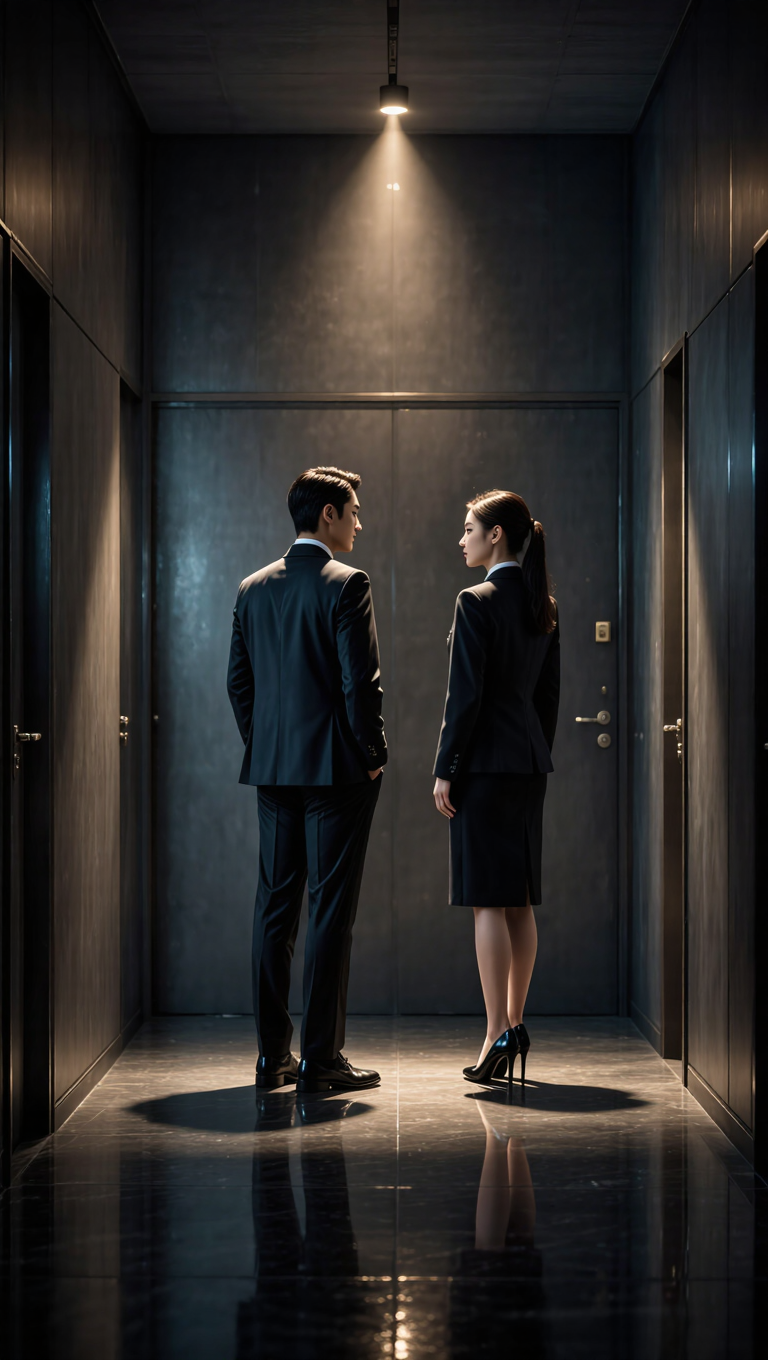
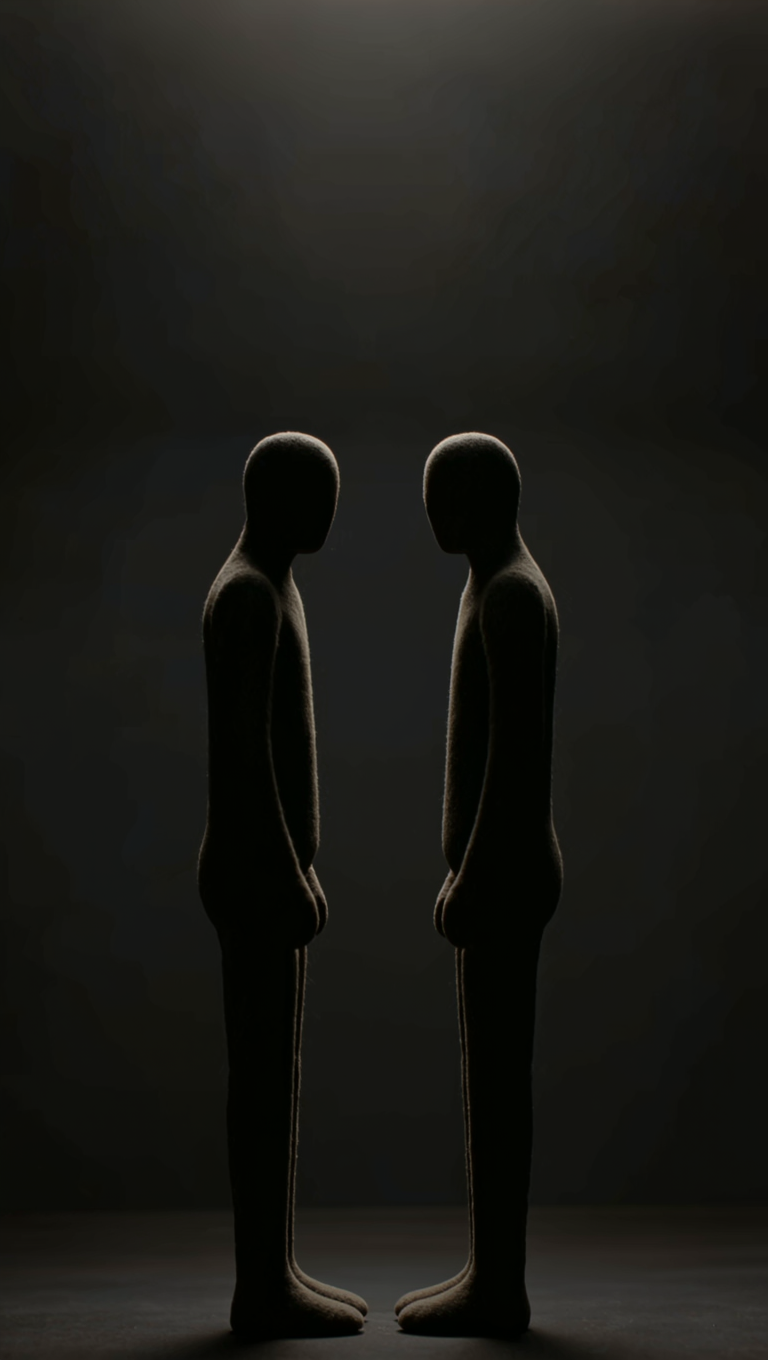
fix(ST-002): pakeistas vaizdas — abstrakčios figūros (84/100 → beta)
Problema: senasis vaizdas (du žmonės koridoriuje) turėjo:
  - Lyties signalą (V1.4: 2/5)
  - Naratyvinį šališkumą FC-001 (santykio interpretacija)
  - Biuro koridoriaus kultūrinį kontekstą

Sprendimas: naujas vaizdas — dvi abstrakčios figūros
  - Featureless humanoidai be lyties/drabužių/veido
  - Juodas neutralus fonas
  - Jokios aplinkos detalių

Rezultatas:
  V1.1: 3→4  V1.3: 3→4  V1.4: 2→5
  Balas: 73→84/100
  Statusas: review → beta
  FC-001: minimalus likutinis efektas, stebimas

docs/media/ax_approach.png taip pat atnaujinta

diff --git a/stimuli/ST-002/review.md b/stimuli/ST-002/review.md
@@ -4,7 +4,7 @@
 **Peržiūros data:** 2026-07-30
 **Recenzentas:** Claude (ConflictLab v0.6 auditas)
 **Remtasi:** `docs/methodology/stimulus_validation_protocol.md` v1.0.1
-**Statusas po peržiūros:** beta_po_pataisymo
+**Statusas po peržiūros:** beta
 
 ---
 
@@ -13,10 +13,10 @@
 *Vertinamas tik vaizdas. Variantai ir signalai dar nevertinami.*
 
 ### V1.1 Neutralumas
-**Įvertinimas:** 3/5
-**Paaiškinimas:** Vaizdas leidžia kelias interpretacijas: derybos, konfliktas, susitikimas, atsitiktinis susidūrimas. Tačiau du žmonės veidu į veidą koridoriuje sukuria stiprų "konfrontacijos" lūkestį — viena interpretacija gali dominuoti.
-**Rastos problemos:** Konfrontacijos interpretacija gali viršyti 50% — ribinė neutralumo zona.
-**Rekomendacija:** Priimti su žyma `interpretacijos_skersvėjas: konfrontacija`
+**Įvertinimas:** 4/5
+**Paaiškinimas:** ✓ Pataisyta v2 vaizdu. Abstrakčios figūros be konteksto leidžia platesnes interpretacijas: susitikimas, konfrontacija, pokalbyje, tyla, laukimas. Koridoriaus kontekstas pašalintas — nebėra biuro naratyvo.
+**Rastos problemos:** Du humanoidai veidu į veidą vis dar turi artėjimo/konfrontacijos reikšmę — bet tai yra tiksliai tai ką aw ašis matuoja.
+**Rekomendacija:** Priimti
 
 ### V1.2 AI artefaktai
 **Įvertinimas:** 4/5
@@ -25,22 +25,22 @@
 **Rekomendacija:** Priimti
 
 ### V1.3 Kultūrinis šališkumas
-**Įvertinimas:** 3/5
-**Paaiškinimas:** Biuro koridoriaus aplinka yra pakankamai universali, tačiau specifinė darbo kontekstui. Distancija tarp figūrų (apie 1 metras) turi kultūrinę reikšmę — Vakarų kultūroje tai "asmeninė erdvė", kitur gali būti kitaip.
-**Rastos problemos:** Asmeninės erdvės koncepcija kultūriškai specifinė.
-**Rekomendacija:** Priimti su žyma `cultural_flag: asmenine_erdve`
+**Įvertinimas:** 4/5
+**Paaiškinimas:** ✓ Pataisyta v2 vaizdu. Juodas neutralus fonas, jokios aplinkos detalių — kultūrinis kontekstas pašalintas. Distancija tarp figūrų vis dar turi kultūrinę reikšmę, bet abstrakčios figūros mažina šią priklausomybę.
+**Rastos problemos:** Minimali — fizinė distancija tarp figūrų gali skirtingai interpretuojama skirtingose kultūrose.
+**Rekomendacija:** Priimti
 
 ### V1.4 Lyties / amžiaus / statuso signalai
-**Įvertinimas:** 2/5
-**Paaiškinimas:** Nuotraukoje matomi vyras ir moteris veidu į veidą. Lyties signalas yra tikra problema, tačiau nepriklausomo audito metu nustatytas dar svarbesnis reiškinys — žr. Naratyvinio šališkumo pastabą žemiau.
-**Rastos problemos:** Lyties signalas gali aktyvuoti lyčių dinamikos schemas nesusijusias su aw konstruktu.
-**Rekomendacija:** Taisyti stimulą — ne review.
+**Įvertinimas:** 5/5
+**Paaiškinimas:** ✓ Pataisyta v2 vaizdu. Dvi abstrakčios figūros be lyties, amžiaus ar statuso požymių. Jokios drabužių detalių, jokio veido. Figūros identifikuojamos tik kaip "du subjektai".
+**Rastos problemos:** Nėra.
+**Rekomendacija:** Priimti
 
 ### V1.4a Naratyvinis šališkumas (FC-001)
 **Įvertinimas:** ⚠ Pastaba (ne Protocol kriterijus — žr. `future_considerations.md`)
-**Paaiškinimas:** Vaizdas labai skatina žiūrovą kurti santykių istoriją: vadovas/darbuotojas, kolegos, pora, derybos, konfliktas. Šis naratyvinis sluoksnis gali nustelbti aw signalą — žmogus reaguoja į tariamą santykį, o ne į artėjimo/atsitraukimo dimensiją. Tai skiriasi nuo lyties signalo — problema atsiras net su neutraliomis figūromis jei jos yra aiškioje socialinėje situacijoje.
-**Rastos problemos:** Santykio neapibrėžtumas (relationship ambiguity) gali dominuoti prieš aw konstruktą.
-**Rekomendacija:** Taisyti stimulą — figūros turėtų būti mažiau individualizuotos, be aiškių santykio užuominų.
+**Paaiškinimas:** ✓ Dalinai išspręsta v2 vaizdu. Abstrakčios figūros be drabužių ir veido drastiškai sumažina santykio naratyvo kūrimo galimybę. Tačiau du humanoidai veidu į veidą visada turės tam tikrą santykio neapibrėžtumą — tai gali būti priimtinas lygis aw stimului.
+**Rastos problemos:** Minimalus likutinis naratyvinis šališkumas — priimtinas.
+**Rekomendacija:** Priimti
 
 ### V1.5 Neapibrėžtumo lygis
 **Įvertinimas:** 20–70% (optimalus, bet ribinis)
@@ -185,29 +185,27 @@
 
 | Kriterijus | Objektas | Svoris | Balas | Svertinis |
 |---|---|---|---|---|
-| V1.1 Neutralumas | IMAGE | 15% | 3/5 | 9 |
+| V1.1 Neutralumas | IMAGE | 15% | 4/5 | 12 |
 | V1.2 AI artefaktai | IMAGE | 10% | 4/5 | 8 |
-| V1.3 Kultūrinis neutralumas | IMAGE | 10% | 3/5 | 6 |
-| V1.4 Lyties/statuso neutralumas | IMAGE | 10% | 2/5 | 4 |
+| V1.3 Kultūrinis neutralumas | IMAGE | 10% | 4/5 | 8 |
+| V1.4 Lyties/statuso neutralumas | IMAGE | 10% | 5/5 | 10 |
 | V2.1 Reakcija, ne nuomonė | CHOICES | 15% | 4/5 | 12 |
 | V2.2 Socialinis neutralumas | CHOICES | 15% | 4/5 | 12 |
 | V3.1 Pirminė ašis | SIGNALS | 10% | 5/5 | 10 |
 | V3.4 Svorių simetrija | SIGNALS | 10% | 4/5 | 8 |
 | V4 Teorijų validacija | VISI | 5% | 4/5 | 4 |
-| **VISO** | | **100%** | | **73/100** |
+| **VISO** | | **100%** | | **84/100** |
 
 **Minimalus balas: 70/100**
-**Gautas balas: 73/100** ✓
+**Gautas balas: 84/100** ✓ (buvo 73/100 su senu vaizdu)
 
-**Sprendimas:** 🟡 Beta po pataisymo
+**Sprendimas:** ✅ Beta
 
 **Žymos:**
-- `taisyti_stimula: naratyvinis_sališkumas` — figūros per daug individualizuotos, santykio neapibrėžtumas nustelbia aw
-- `taisyti_stimula: lyties_signalas` — rekomenduoti abstraktūs siluetai
-- `cultural_flag: asmenine_erdve` — kultūriškai specifinė distancija
-- `teorinis_abejonimas: SCARF_status` — SCARF abejoja dominuojančiu konstruktu
+- `teorinis_abejonimas: SCARF_status` — SCARF abejoja dominuojančiu konstruktu (stebima)
+- `fc_001_stebima` — Naratyvinis šališkumas minimalus, stebimas
 - `replaces: L02` — archyvuojamas senas stimulas
-- `fc_001_stebima` — Naratyvinis šališkumas užregistruotas future_considerations.md
+- `image_v2` — vaizdas pakeistas po audito
 
 ---
 
@@ -220,7 +218,7 @@
 - ✓ Naujas signalų derinys: aw+ su cs+/cr+ (artėjimas + struktūros lūkestis)
 - ⚠ Taisytina: naratyvinis šališkumas + lyties signalas
 
-**Sprendimas:** 🟡 Beta po pataisymo — stimulas praturtina biblioteką, bet reikia geresnio vaizdo
+**Sprendimas:** ✅ Beta — stimulas praturtina biblioteką, vaizdas pataisytas po audito
 
 ---
 
